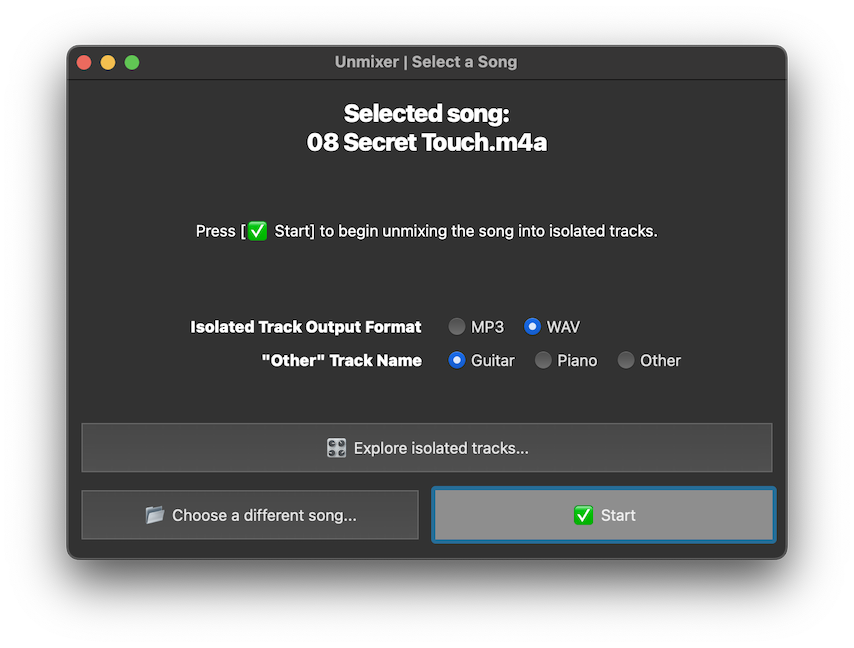
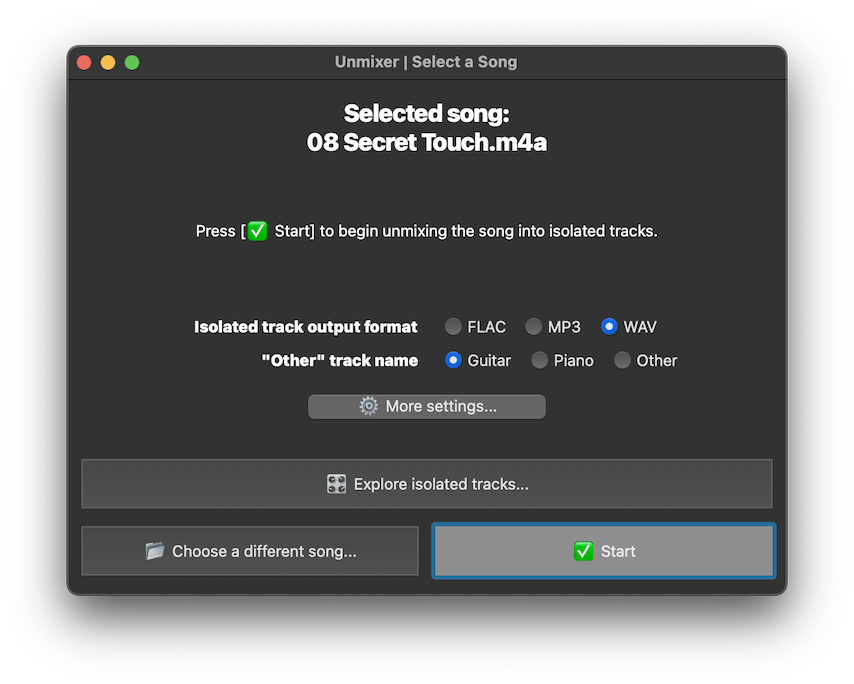
Update readme and screenshots

diff --git a/README.md b/README.md
@@ -47,7 +47,7 @@ the program accepts.
 
 ```
 $ unmixer -h
-usage: unmixer [-h] [--mp3] [-o OUTPUT] [-g | -p] [music_file_or_track_dir]
+usage: unmixer [-h] [music_file_or_track_dir]
 
 create and explore isolated tracks from music files
 
@@ -57,11 +57,6 @@ positional arguments:
 
 options:
 -h, --help            show this help message and exit
---mp3, --output-mp3   output isolated tracks as MP3 files instead of WAV
--o OUTPUT, --output OUTPUT, --output-dir OUTPUT
-                      path to the directory for output isolated tracks (default: ~/unmixer)
--g, --guitar          show "Guitar" track instead of "Other"
--p, --piano           show "Piano" track instead of "Other"
 ```
 
 ### Creating Isolated Tracks
@@ -88,7 +83,9 @@ change to reflect that the song is ready to be processed (see the screenshot bel
 ![Import Ready Dialog](https://raw.githubusercontent.com/will2dye4/unmixer/master/images/import_ready_dialog.png)
 
 Use the radio buttons to set the desired output format for the isolated tracks (MP3 or WAV)
-and the name of the "other" track (see Customizing the "Other" Track Name, below).
+and the name of the "other" track (see Customizing the "Other" Track Name, below). Press
+`More settings...` to customize additional settings such as the output directory, prediction
+model, and so on.
 
 If you selected the wrong song by mistake, press `Choose a different song...` to select a
 different file. When you are ready to unmix the song into isolated tracks, press the `Start`
@@ -101,8 +98,11 @@ button to abandon processing of the song.
 ![Song Processing Dialog](https://raw.githubusercontent.com/will2dye4/unmixer/master/images/song_processing_dialog.png)
 
 **Please be patient during the process of creating the isolated tracks**, as it will
-take some time to complete! It typically takes about as long as the source song itself
-(or a bit longer) to create the isolated tracks for a song. For example, if a song
+take some time to complete! The time required largely depends on the length of the source
+song, the selected prediction model, and other factors such as whether your device
+supports GPU acceleration or the configured parallelism. As a baseline, with no GPU
+acceleration and a single CPU process, it typically takes about as long as the source song
+itself (or a bit longer) to create the isolated tracks for a song. For example, if a song
 is 5 minutes long, it will likely take roughly 5 minutes to create isolated tracks for
 that song.
 
@@ -113,50 +113,45 @@ shell or terminal from which you launched the `unmixer` UI to get a better appro
 of how long it will take to process the song. A visual progress bar may be added in
 a future version.
 
-Although it may be possible to speed up the process by adjusting the flags passed to
-`demucs`, the current implementation tends to favor producing higher quality isolated
-tracks at the expense of taking a bit longer. A future version of `unmixer` may allow
-customizing the quality, bitrate, machine learning model, or other settings that
-can be configured by `demucs`; the current version does not allow any such customization
-aside from selecting the output format (see below).
-
 #### Output Format
 
 By default, isolated tracks are created as WAV files for the highest quality. To create
-MP3 files instead, the `--mp3`/`--output-mp3` flag may be passed to `unmixer`. Alternatively,
-use the **Isolated Track Output Format** radio buttons in the Song Importer window to select
-either MP3 or WAV format.
+FLAC or MP3 files instead, use the **Isolated track output format** radio buttons in the
+Song Importer window to select the desired format.
 
 **NOTE:** Mixes exported using the Track Explorer (see below) will use the same format
 as the source isolated track files.
+
+**NOTE:** If you selected an output format other than WAV, replace the `.wav` file extension
+in the following sections with the appropriate extension (`.flac` or `.mp3`).
 
 #### Output Tracks
 
 The following isolated tracks are created by default:
 
-* `bass.wav` (or `bass.mp3`)
-* `drums.wav` (or `drums.mp3`)
-* `other.wav` (or `other.mp3`)
-* `vocals.wav` (or `vocals.mp3`)
+* `bass.wav`
+* `drums.wav`
+* `other.wav`
+* `vocals.wav`
 
 These are the sources that are supported by `demucs`; unfortunately, there is currently
 no specific source available for guitar, piano, or any others besides bass, drums, and
 vocals. Any part of the song's audio that is not identified as bass, drums, or vocals
-will be found in the `other.(mp3|wav)` file.
+will be found in the `other.wav` file.
+
+**NOTE:** `demucs` does include one pre-trained model, `htdemucs_6s`, which includes guitar
+and piano as additional sources. This model is still in an experimental stage and does not
+perform reliably at separating all sources.
 
 #### Customizing the "Other" Track Name
 
-In some cases, the isolated track `other.(mp3|wav)` may contain primarily a single instrument,
+In some cases, the isolated track `other.wav` may contain primarily a single instrument,
 such as a guitar or piano. In these cases, it may be useful for the resulting output track
-to have a corresponding name such as `guitar.(mp3|wav)` or `piano.(mp3|wav)` instead of the
-default `other.(mp3|wav)`.
+to have a corresponding name such as `guitar.wav` or `piano.wav` instead of the
+default `other.wav`.
 
-To change the name of the "other" track to `guitar.(mp3|wav)`, the `-g`/`--guitar` flag may be
-passed to `unmixer`. Similarly, to change the name of the "other" track to `piano.(mp3|wav)`,
-the `-p`/`--piano` flag may be passed to `unmixer` instead. (It is an error to pass both
-`-g` and `-p` at the same time.) Alternatively, use the **"Other" Track Name** radio buttons
-in the Song Importer window to select Guitar, Piano, or Other.
-
+To change the name of the "other" track to `guitar.wav` or `piano.wav`, use the
+**"Other" track name** radio buttons in the Song Importer window to select the desired name.
 It is not currently possible to customize the name of the "other" track to be any arbitrary name,
 although this feature may be added in a future version.
 
@@ -164,18 +159,45 @@ although this feature may be added in a future version.
 
 By default, `unmixer` creates isolated tracks in subdirectories of the directory `~/unmixer`.
 Each song's isolated tracks will be placed in a new subdirectory of the output directory
-named based on the song's filename. For example, isolated tracks for a song named
-`Subdivisions.mp3` would be placed in the directory `~/unmixer/Subdivisions` by default
-(note that the subdirectory does not include the `.mp3` file extension).
+named based on the selected prediction model and the song's filename. For example, isolated tracks
+for a song named `Subdivisions.mp3` created using the model `htdemucs` would be placed in the
+directory `~/unmixer/htdemucs/Subdivisions` by default (note that the subdirectory does not include
+the `.mp3` file extension).
 
-**NOTE:** Creating isolated tracks for multiple songs with the same filename will result in
-any previous songs' isolated tracks being overwritten! If you need to process multiple distinct
-songs with the same filename, be sure to rename the created directories (or rename the song
-files themselves) to avoid conflicts!
+**NOTE:** Creating isolated tracks for multiple songs with the same filename using the same model
+will result in any previous songs' isolated tracks being overwritten! If you need to process
+multiple distinct songs with the same filename, be sure to rename the created directories (or
+rename the song files themselves) to avoid conflicts!
 
-Use the `-o`/`--output`/`--output-dir` flag to customize the output directory for isolated tracks
-created by `unmixer`. A subdirectory of this directory will be created for the isolated tracks, as
-described above.
+To customize the output directory for isolated tracks, press `More settings...` in the Song
+Importer window and adjust the `Output directory` setting in the Unmixer Preferences window
+that opens. You may also enable or disable creation of a subdirectory named for the selected
+prediction model. A subdirectory of the selected output directory will be created for each
+song's isolated tracks, as described above.
+
+#### Other Settings
+
+To see all customizable settings, press `More settings...` in the Song Importer window after
+selecting a song. The Unmixer Preferences window will appear (see the screenshot below).
+Hover over each setting's label to see a description of that setting in the status bar at
+the bottom of the Unmixer Preferences window. See the
+[demucs docs](https://github.com/facebookresearch/demucs/tree/main#separating-tracks) for
+details about settings such as clip mode, segmentation of input songs, and so on.
+
+Changes made to the settings are saved automatically; however, changes made to settings while
+a song is being processed will not take effect until the next time a song is imported. Press
+`Restore Defaults` at the bottom of the Unmixer Preferences window to revert all settings
+to their default values.
+
+![Preferences Dialog](https://raw.githubusercontent.com/will2dye4/unmixer/master/images/preferences.png)
+
+**NOTE:** Some settings may not be available or have limited configurability depending on the
+selected prediction model. For example, the `htdemucs` family of models has a maximum segment
+length of 7.8 seconds, so `unmixer` requires that songs processed using this model be split into
+segments with a maximum segment length of no more than 7 seconds (since `demucs` accepts the
+segment length as an integer). Similarly, `unmixer` does not allow customizing the "other"
+track name when using the `htdemucs_6s` model because this model already includes guitar and piano
+as distinct sources.
 
 ### Exploring Isolated Tracks
 
@@ -250,12 +272,3 @@ If you export custom mixes in the same directory where the isolated tracks are l
 custom mixes will also be loaded if you reopen the same directory using `unmixer` in the future.
 If you want to avoid this, save any custom mixes to a different directory, such as a `remixes`
 subdirectory of the directory where the isolated tracks are located.
-
-#### Customizing the "Other" Track Name
-
-In the same way as when creating isolated tracks (see above), the `-g`/`--guitar` flag may be
-passed to `unmixer` to change the displayed name of the `Other` track (if present) to `Guitar`.
-Similarly, to change the name of the `Other` track to `Piano`, the `-p`/`--piano` flag may be
-passed to `unmixer` instead. (It is an error to pass both `-g` and `-p` at the same time.)
-It is not currently possible to customize the name of the `Other` track to be any arbitrary
-name, although this feature may be added in a future version.
